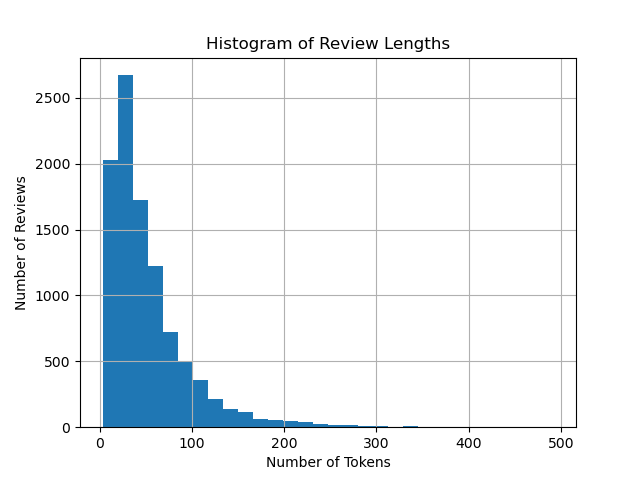
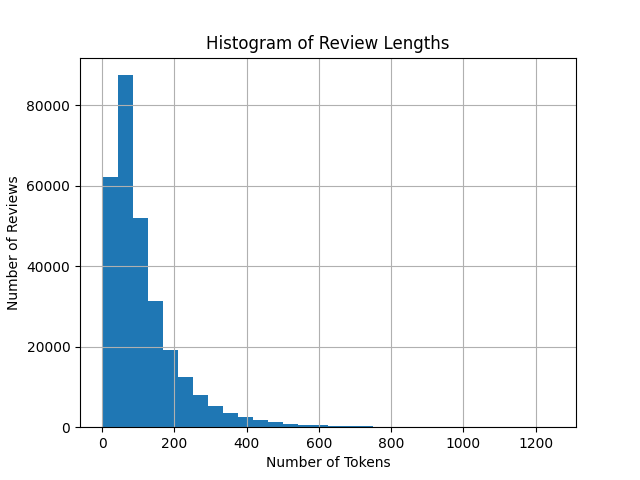
Minor changes on utils/

diff --git a/utils/analysis.py b/utils/analysis.py
@@ -1,8 +1,9 @@
 import argparse
 import pandas as pd
 import matplotlib.pyplot as plt
-from tokenizer import tokenize
+from tokenizer import MyTokenizer
 from tqdm import tqdm
+import numpy as np
 
 if __name__ == "__main__":
     # load csv data
@@ -12,9 +13,13 @@ if __name__ == "__main__":
     args = parser.parse_args()
 
     df = pd.read_csv(args.csv)
+    df = df[df['label'] != 'label']
+    df['label'] = df['label'].astype(np.float64)
     # df format: stars, text
     # print first row
     print(f"First row: {df.iloc[0]}")
+    print(f"First label: {df.iloc[0]['label']}")
+    print(f"Type of label: {type(df.iloc[0]['label'])}")
 
     # print total number of rows
     print(f"Total number of rows: {len(df)}")
@@ -24,9 +29,10 @@ if __name__ == "__main__":
     print(f"Number of negative reviews: {len(df[df['label'] == 0])}")
 
     if args.plot_len_hist:
+        tokenizer = MyTokenizer(None, 150, remove_stopwords=False)
         # get the length of tokenized all text, show progress bar with tqdm
         for i in tqdm(range(len(df))):
-            df.loc[i, 'num_tokens'] = len(tokenize(df.loc[i, 'text']))
+            df.loc[i, 'num_tokens'] = len(tokenizer.tokenize(df.loc[i, 'text']))
 
         # plot histogram of review lengths as number of tokens
         df['num_tokens'].hist(bins=30)

diff --git a/utils/tokenizer.py b/utils/tokenizer.py
@@ -19,7 +19,7 @@ class MyTokenizer():
         :param remove_stopwords: whether to remove stopwords using nltk
         """
         self.vocab = vocab
-        if not isinstance(self.vocab, torchtext.vocab.Vocab) and not isinstance(
+        if vocab and not isinstance(self.vocab, torchtext.vocab.Vocab) and not isinstance(
                 self.vocab, torchtext.vocab.GloVe):
             raise ValueError(
                 "Vocab must be either torchtext.vocab.Vocab or torchtext.vocab.GloVe")
